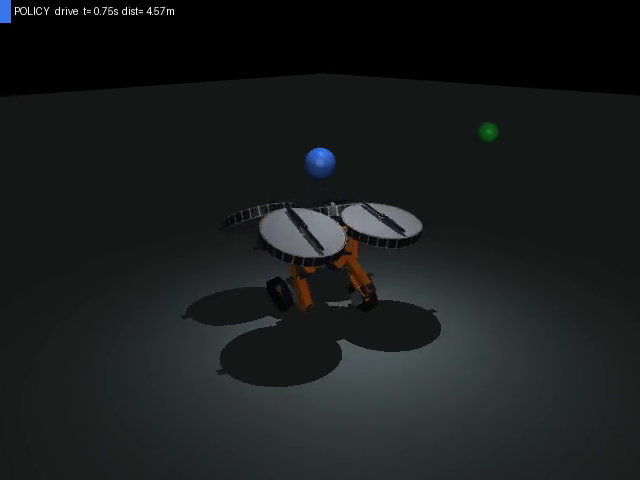
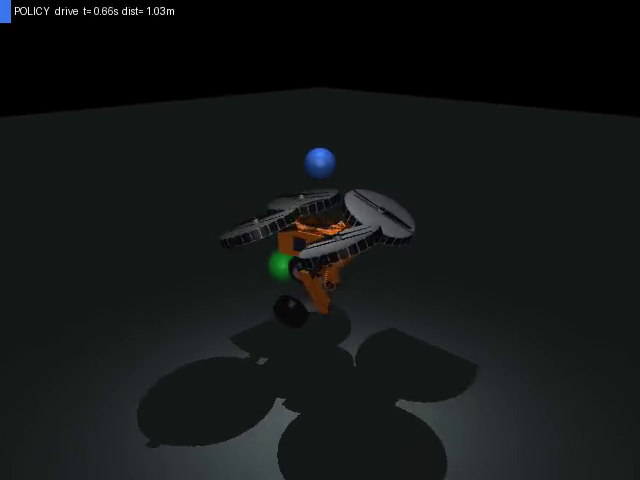
AETHER-1: longer sim montage (drive+fly), measured results section

diff --git a/projects/aether-1.html b/projects/aether-1.html
@@ -71,9 +71,41 @@
     <figcaption>To-scale geometry, generated directly from the simulation model's constants.</figcaption>
   </figure>
   <figure class="media16">
-    <video controls muted loop playsinline preload="none" poster="../assets/img/aether1-sim-frame.png" src="../assets/video/aether1_sim_drive.mp4"></video>
+    <video controls muted loop playsinline preload="none" poster="../assets/img/aether1-sim-frame.png" src="../assets/video/aether1_sim_montage.mp4"></video>
   </figure>
-  <figcaption>The deployed policy driving in the verification simulator.</figcaption>
+  <figcaption>The deployed policy driving and flying in the verification simulator (montage).</figcaption>
+
+  <h2>Results</h2>
+  <p>
+    Before anything is cleared for hardware, the deployed controller must pass a seeded,
+    deterministic verification battery in MuJoCo — 18 scenarios covering driving, flight, landing,
+    a domain-randomization sweep, and edge cases, measured on the exact controller build that
+    would run on the robot. The training run itself closed its final curriculum stage at a
+    <strong>0.995 success gate</strong>; the battery below is the independent check on the
+    deployed build, and it currently stands at <strong>14 PASS / 4 WARN / 0 FAIL</strong> with
+    no divergence in any episode.
+  </p>
+  <table class="results-table">
+    <thead>
+      <tr><th>Capability</th><th>Result</th><th>Key measurement</th></tr>
+    </thead>
+    <tbody>
+      <tr><td><b>Drive</b> to ground goals, 1&ndash;8 m</td><td>1.00 success</td><td>final goal distance 0.17&ndash;0.19 m, final tilt &asymp; 4&deg;</td></tr>
+      <tr><td><b>Fly</b> to air goals + hover-hold, 1&ndash;8 m</td><td>1.00 success</td><td>station-keeping error 0.18&ndash;0.20 m</td></tr>
+      <tr><td><b>Land</b> (rotor&#8594;wheel handoff)</td><td>1.00 success, 1.00 latch rate</td><td>touchdown 0.14&ndash;0.15 m/s, upright within 9&deg;</td></tr>
+      <tr><td><b>Robustness</b> sweep, 7 randomization axes</td><td>1.00 success on all 7</td><td>wind, +20% mass &amp; +2 kg payload, rotor asymmetry, battery sag, sensor bias, latency, floor tilt</td></tr>
+      <tr><td><b>Full battery</b>, 18 scenarios</td><td>14 PASS / 4 WARN / 0 FAIL</td><td>no divergence or NaN in any episode</td></tr>
+    </tbody>
+  </table>
+  <figcaption>Measured on the deployed controller in the verification simulator — 5 seeded episodes per scenario, deterministic policy.</figcaption>
+  <figure>
+    <img src="../assets/img/aether1-results-success.png" alt="Evaluation success rate rising over the curriculum run, with dips at stage transitions and recovery to about 0.9">
+    <figcaption>Evaluation success rate over the one-brain curriculum run — each dip is a new stage being introduced, then re-mastered without forgetting earlier skills.</figcaption>
+  </figure>
+  <figure>
+    <img src="../assets/img/aether1-results-curriculum.png" alt="Curriculum stage index stepping from 0 to 5 over the training run">
+    <figcaption>Curriculum stage progression — advancement is earned by measured performance at each gate, not scheduled.</figcaption>
+  </figure>
 
   <h2>From simulation to hardware</h2>
   <figure>
@@ -85,10 +117,10 @@
     15 kg Mk1 demonstrator with a full engineering package behind it: component selection and
     sourcing, power and endurance modeling, EU regulatory strategy, a parametric CAD model with a
     validated URDF, staged test rigs that replace guessed simulation constants with measured ones,
-    and a safety-gated bring-up procedure. The guiding number is honest: at this scale a battery
-    aircraft hovers for minutes — but a hybrid that drives at a tenth of a kilowatt completes
-    <strong>90&ndash;120 minute missions</strong> with 10&ndash;15 minutes of flight exactly where
-    it's needed.
+    and a safety-gated bring-up procedure. The physics that motivated the project stays the design
+    driver: driving is roughly ten times cheaper than hovering, so the hybrid spends rotor time
+    only where wheels cannot go — the same energy asymmetry the policy learned to exploit in
+    simulation.
   </p>
 
   <h2>Status</h2>

diff --git a/assets/css/style.css b/assets/css/style.css
@@ -273,6 +273,15 @@ footer a { color: var(--text-dim); }
 .detail-body figure { margin-top: 22px; }
 .detail-body figure img { border-radius: 12px; border: 1px solid var(--card-edge); }
 .detail-body figcaption { margin-top: 9px; font-size: 13.5px; color: var(--text-faint); }
+
+.results-table { width: 100%; margin-top: 22px; border-collapse: collapse; font-size: 14.5px; }
+.results-table th, .results-table td {
+  padding: 10px 12px; text-align: left; vertical-align: top;
+  border-bottom: 1px solid var(--card-edge);
+}
+.results-table th { color: var(--text-dim); font-size: 12.5px; text-transform: uppercase; letter-spacing: 0.06em; }
+.results-table td { color: var(--text-dim); }
+.results-table td b { color: var(--text); }
 .back-link { font-family: var(--mono); font-size: 14px; }
 .media16 {
   position: relative; aspect-ratio: 16 / 9; margin-top: 22px;

diff --git a/index.html b/index.html
@@ -64,7 +64,7 @@
 
     <div class="featured reveal">
       <div class="featured-media">
-        <video controls muted loop playsinline preload="none" poster="assets/img/aether1-sim-frame.png" src="assets/video/aether1_sim_drive.mp4"></video>
+        <video controls muted loop playsinline preload="none" poster="assets/img/aether1-sim-frame.png" src="assets/video/aether1_sim_montage.mp4"></video>
       </div>
       <div class="featured-body">
         <div class="featured-tag">SIMULATION-VALIDATED &middot; HARDWARE PROTOTYPE IN DEVELOPMENT</div>